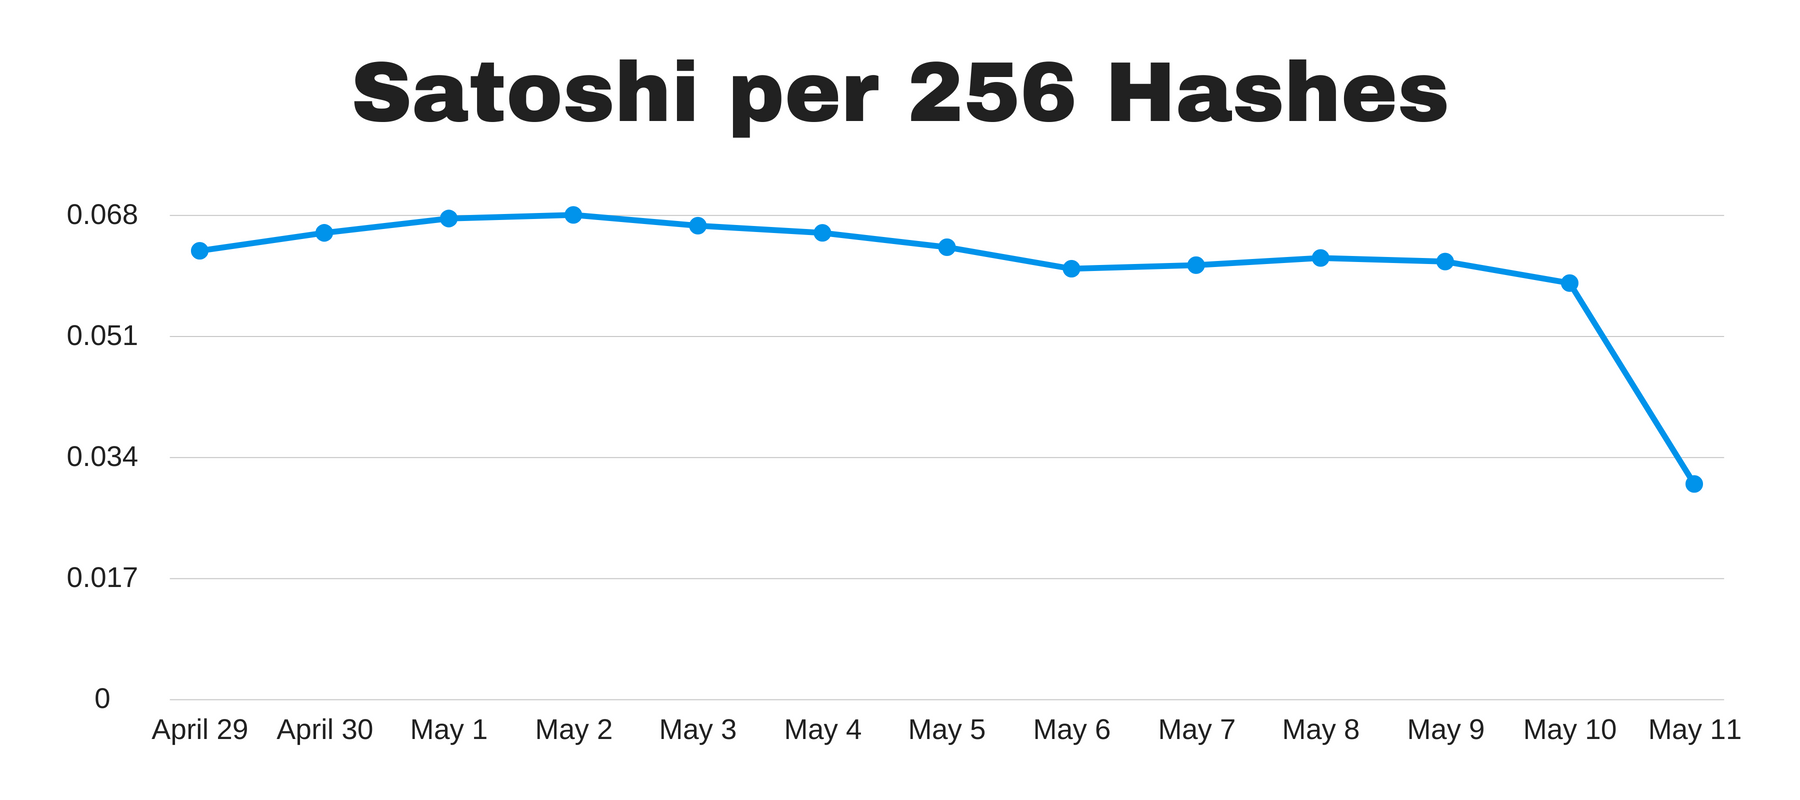
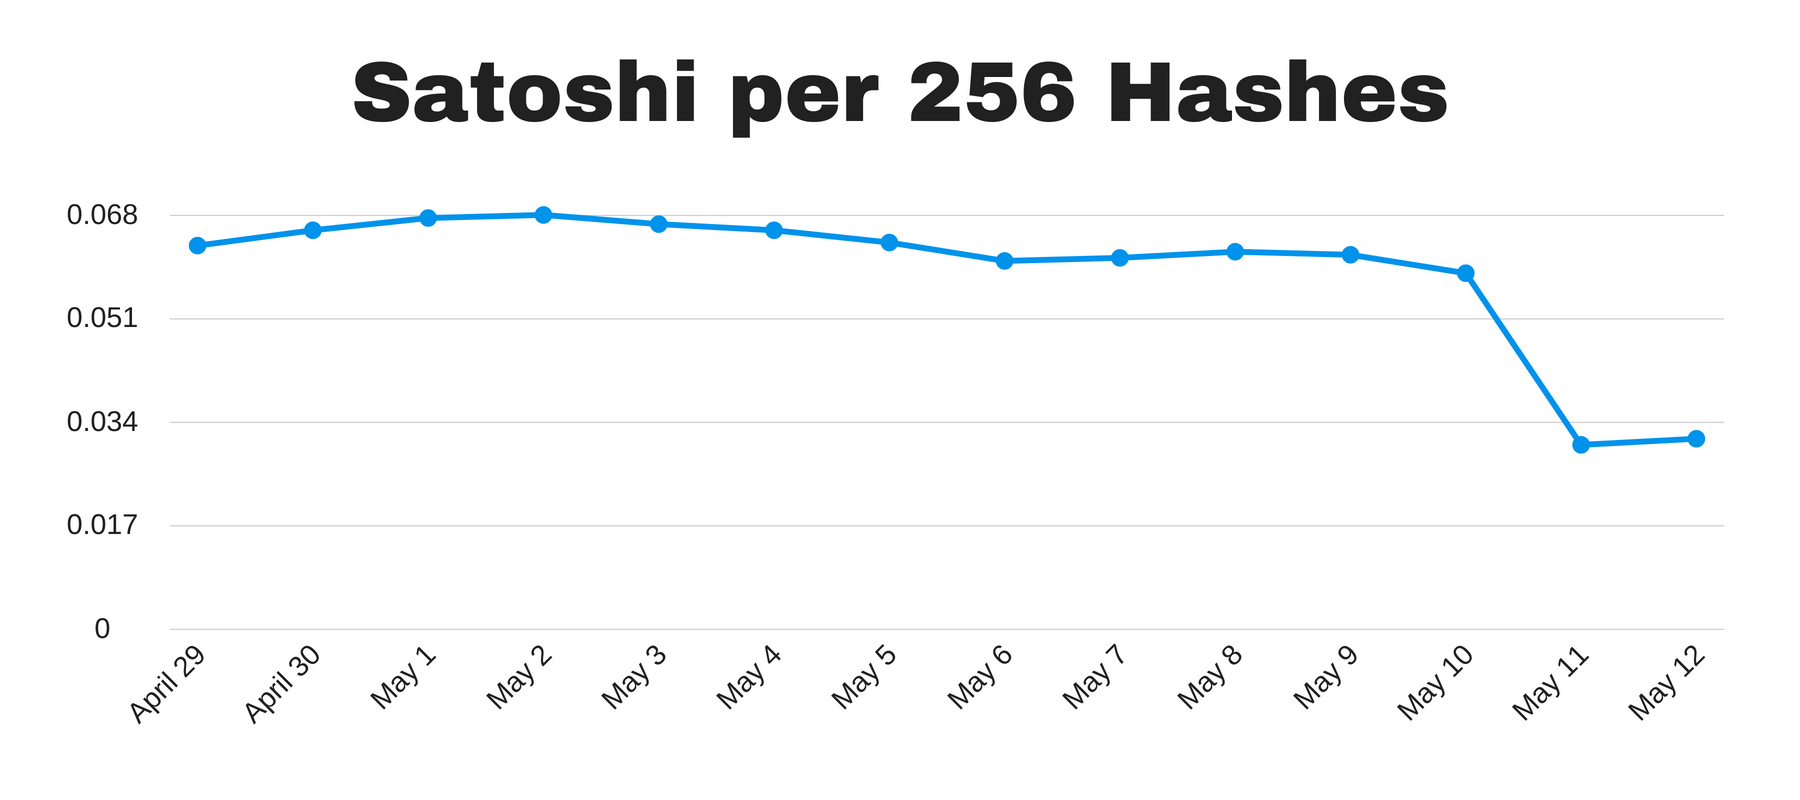
Add files via upload

diff --git a/changelog.html b/changelog.html
@@ -5,8 +5,12 @@
 <script src="css-switching.js"></script>
 
 <hr />
-<p class="text">May 10 2018: <strong>Version 1.3.7 (VC1370)</strong></p>
+<p class="text">May 12 2018: <strong>Version 1.4 (VC1400)</strong></p>
 <p class="up">Newest available version!</p>
+<p class="details">This update has a new package name! This means that the update will be treated as a second app, instead of an update to an existing app. Please delete the old version of Mobile Miner (v.1.3.7 or below) before installing the update to avoid confusion between the 2 apps.<br><br>- Ads are working correctly again, video verification should work along with all the banner ads.<br>- New backend updates to improve user experience.<br>- Additional payment bug fixes</p>
+
+<hr />
+<p class="text">May 10 2018: <strong>Version 1.3.7 (VC1370)</strong></p>
 <p class="details">Ads stopped showing due to our Play Store account being suspended. This update has new ad codes that should start showing later today, when the new ads work you will be able to use video ad verification again.</p>
 
 <hr />

diff --git a/status/api/data-v2.html b/status/api/data-v2.html
@@ -1,5 +1,5 @@
-{paymentRateDiv="8533"}
-{paymentRate256="0.03"}
+{paymentRateDiv="8258"}
+{paymentRate256="0.031"}
 
 {newestAvailableVerCode="1361"}
 {newestAvailableVerName="1.3.6.1"}
@@ -8,7 +8,7 @@
 {oldestSupportedVerCode="1361"}
 
 {showNotify="true"}
-{notifyTitle="Today's exchange rate is 0.03 Satoshi for 256 hashes. We have stopped earning ad revenue and therefore the rate is down. You can check the latest updates at http://miner.tweakly.net/rates. Remember to leave a review on the download page if your payment works! Thanks!"} //actually the text oops
+{notifyTitle="Today's exchange rate is 0.031 Satoshi for 256 hashes. We have stopped earning ad revenue and therefore the rate is down. You can check the latest updates at http://miner.tweakly.net/rates. Remember to leave a review on the download page if your payment works! Thanks!"} //actually the text oops
 {notifyText="Welcome"} //actually the title oops
 {notifyExit="Close"}
 {notifyID="3"}

diff --git a/status/api/data-v3.html b/status/api/data-v3.html
@@ -1,5 +1,5 @@
-{paymentRateDiv="8533"}
-{paymentRate256="0.03"}
+{paymentRateDiv="8258"}
+{paymentRate256="0.031"}
 
 {newestAvailableVerCode="1361"}
 {newestAvailableVerName="1.3.6.1"}
@@ -9,7 +9,7 @@
 
 {showNotify="true"}
 {notifyTitle="Welcome"}
-{notifyText="Today's exchange rate is 0.03 Satoshi for 256 hashes. We have stopped earning ad revenue and therefore the rate is down. You can check the latest updates at http://miner.tweakly.net/rates. Remember to leave a review on the download page if your payment works! Thanks!"}
+{notifyText="Today's exchange rate is 0.031 Satoshi for 256 hashes. We have stopped earning ad revenue and therefore the rate is down. You can check the latest updates at http://miner.tweakly.net/rates. Remember to leave a review on the download page if your payment works! Thanks!"}
 {notifyExit="Close"}
 {notifyID="3"}
 

diff --git a/exchange-rates-raw.html b/exchange-rates-raw.html
@@ -5,6 +5,9 @@
 <script src="css-switching.js"></script>
 
 <hr />
+<p class="text">May 12: <strong>0.031 Satoshi</strong></p> <p class="up">▲ 0.001 Satoshi</p>
+
+<hr />
 <p class="text">May 11: <strong>0.03 Satoshi</strong></p> <p class="down">▼ 0.028 Satoshi</p>
 
 <hr />
